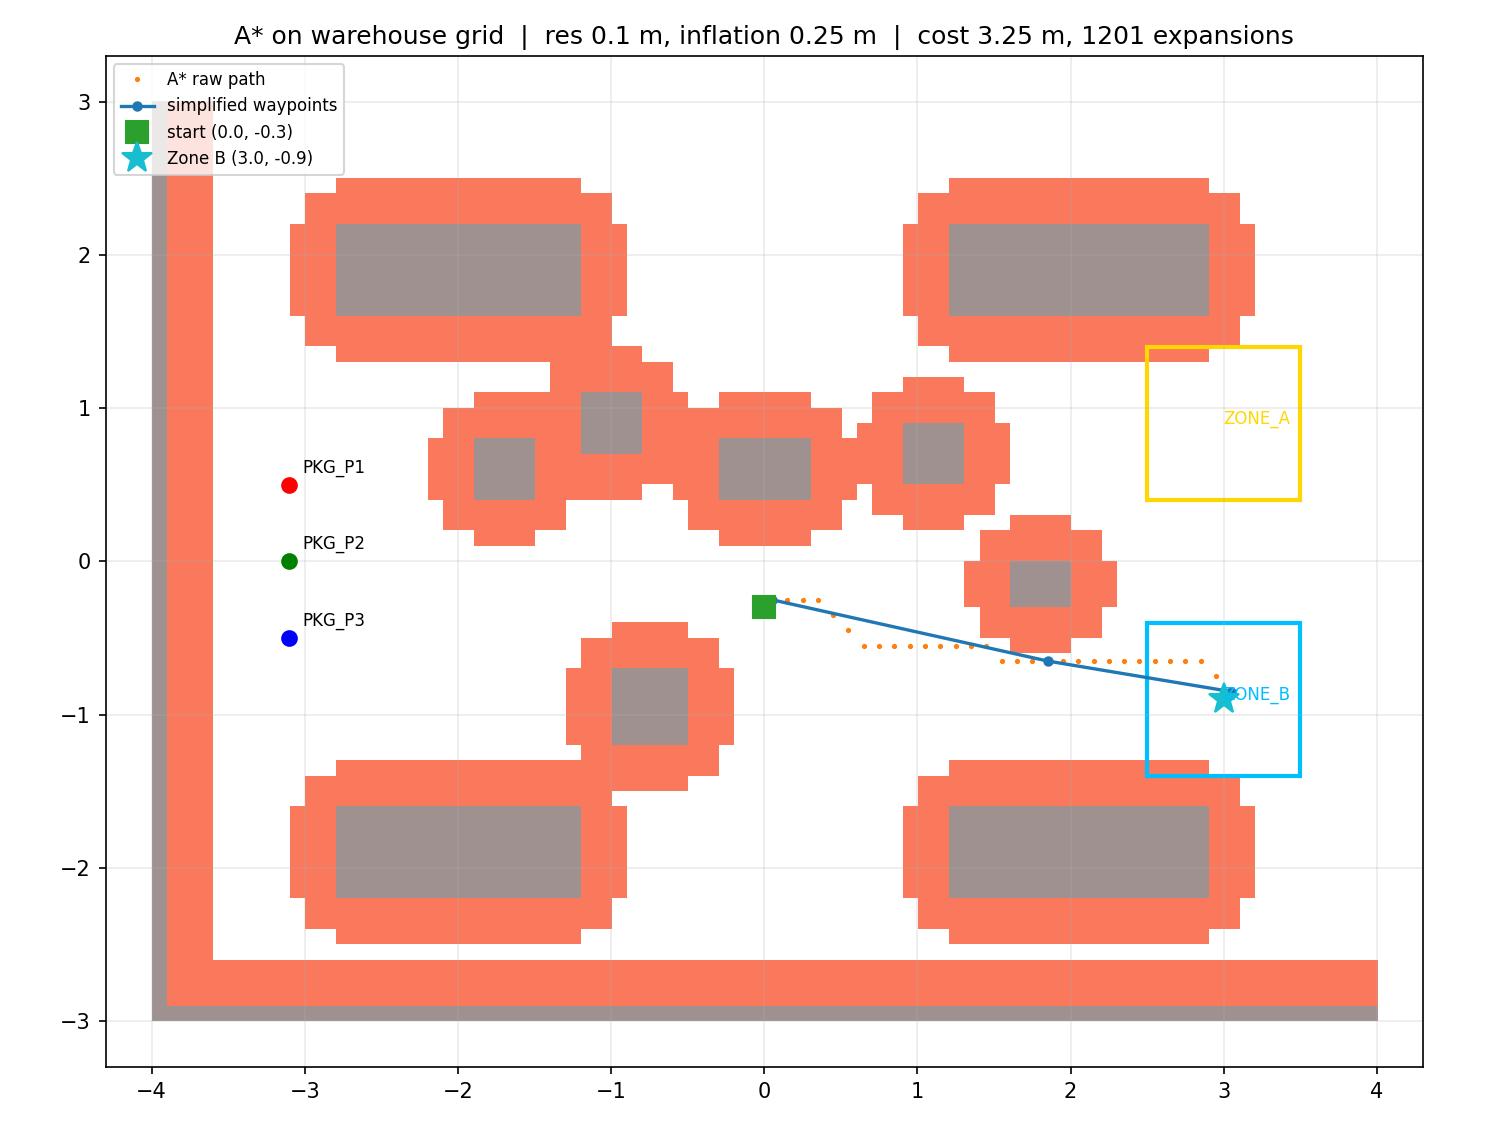
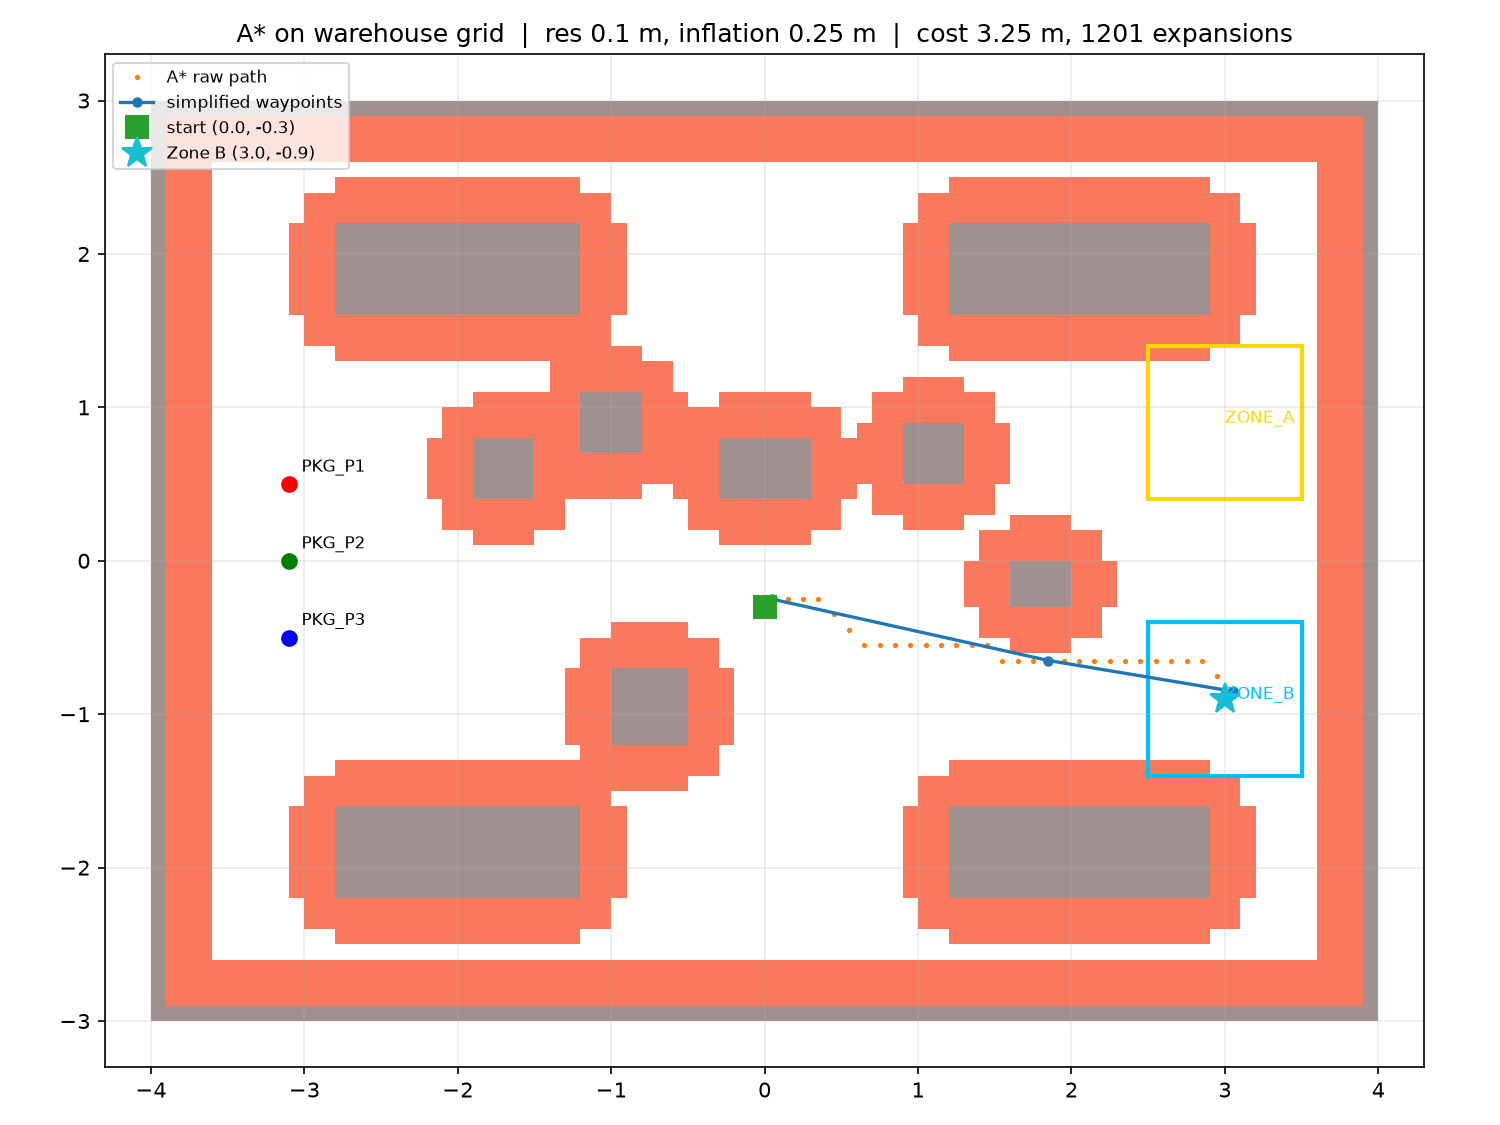
camera view

diff --git a/controllers/intellibot_controller/intellibot_controller.py b/controllers/intellibot_controller/intellibot_controller.py
@@ -53,6 +53,42 @@ def apply_campaign_start(robot):
     return idx, f"_{idx}"
 
 
+class PackageCarrier:
+    """Moves the task package Solid with the robot while fsm.carrying is set
+    (Supervisor teleport each step), then sets it down in front of the robot.
+
+    The package rides above the body and the LiDAR plane, so it never shows
+    up in the scan.
+    """
+    CARRY_Z = (config.BODY_HEIGHT / 2 + 0.08) + config.PKG_SIZE / 2 + 0.03
+    DROP_AHEAD = config.BODY_LENGTH / 2 + config.PKG_SIZE / 2 + 0.05
+
+    def __init__(self, robot):
+        self.node = robot.getFromDef(config.TASK_PACKAGE_DEF)
+        if self.node is None:
+            print(f"[INTELLIBOT] {config.TASK_PACKAGE_DEF} not in world — "
+                  f"package will not be carried")
+        self.attached = False
+
+    def update(self, pose, carrying):
+        if self.node is None:
+            return
+        x, y, theta = pose
+        if carrying:
+            self._place(x, y, self.CARRY_Z, theta)
+            self.attached = True
+        elif self.attached:
+            self._place(x + self.DROP_AHEAD * math.cos(theta),
+                        y + self.DROP_AHEAD * math.sin(theta),
+                        config.PKG_SIZE / 2, theta)
+            self.attached = False
+
+    def _place(self, x, y, z, yaw):
+        self.node.getField("translation").setSFVec3f([x, y, z])
+        self.node.getField("rotation").setSFRotation([0, 0, 1, yaw])
+        self.node.resetPhysics()
+
+
 def print_env_versions():
     """Phase 0.1: prove numpy/cv2/matplotlib import inside the controller."""
     import numpy
@@ -102,12 +138,29 @@ def main():
                                                     scan, angles)
 
     fsm = DecisionMaker(planner, estimator, grid=grid)
+    carrier = PackageCarrier(robot)
     logger = RunLogger(os.path.join(_ROOT, "logs",
                                     f"run{log_suffix}.csv")).start()
 
     log_every = max(1, int(0.1 / (timestep / 1000.0)))  # ~10 Hz
     dash_every = max(1, int(0.5 / (timestep / 1000.0)))  # ~2 Hz dashboard
     step_i = 0
+    finished = False
+    # quit at DONE only in unattended campaign runs; an interactive run keeps
+    # stepping (wheels stopped) so the camera/dashboard overlays stay live
+    quit_at_end = config.AUTO_QUIT and run_idx is not None
+
+    def finish():
+        # final row so the CSV records the terminal state even when DONE
+        # happens between two 10 Hz log ticks
+        pose = perception.get_pose()
+        logger.log(t=round(robot.getTime(), 3),
+                   x=round(pose[0], 4), y=round(pose[1], 4),
+                   theta=round(pose[2], 4),
+                   state=fsm.state, wp_idx=-1, n_detections=0)
+        logger.close()
+        sys.stdout.flush()      # DONE/REPORT prints otherwise lost to buffering
+
     while robot.step(timestep) != -1:
         sim_time = robot.getTime()
         pose = perception.get_pose()                    # x, y, theta (GPS+IMU)
@@ -120,13 +173,14 @@ def main():
                           timestep / 1000.0)
         wl, wr = inverse_kinematics(v, w)
         perception.set_wheel_speeds(wl, wr)
+        carrier.update(pose, fsm.carrying)
         set_state_led(led, fsm.state)
 
         if dash is not None and step_i % dash_every == 0:
             wps = fsm.follower.waypoints if fsm.follower else None
             dash.draw(pose, fsm.state, sim_time, wps, fsm.pkg_pos)
 
-        if step_i % log_every == 0:
+        if not finished and step_i % log_every == 0:
             logger.log(
                 t=round(sim_time, 3),
                 x=round(pose[0], 4), y=round(pose[1], 4),
@@ -144,25 +198,29 @@ def main():
                 n_detections=len(dets),
             )
         step_i += 1
+        if finished:
+            continue
         if fsm.state in ("DONE", "ERROR") and sim_time > fsm.t_start + 2.0:
-            # mission over: stop cleanly (simulationQuit alone proved
+            # mission over: stop logging (simulationQuit alone proved
             # unreliable in batch/realtime runs — run.csv kept growing to the
             # 300 s safety timeout after DONE)
-            print(f"[INTELLIBOT] mission {fsm.state} — stopping controller")
-            break
-        if sim_time > 300.0:                            # hard safety timeout
+            finished = True
+            finish()
+            if quit_at_end:
+                print(f"[INTELLIBOT] mission {fsm.state} — stopping controller")
+                break
+            print(f"[INTELLIBOT] mission {fsm.state} — robot idle, "
+                  f"dashboard stays live (pause/reset the simulation to stop)")
+            sys.stdout.flush()
+        elif sim_time > 300.0:                          # hard safety timeout
             print("[INTELLIBOT] 300 s timeout — stopping")
+            finished = True
+            finish()
             break
 
-    # final row so the CSV records the terminal state even when DONE happens
-    # between two 10 Hz log ticks
-    pose = perception.get_pose()
-    logger.log(t=round(robot.getTime(), 3),
-               x=round(pose[0], 4), y=round(pose[1], 4), theta=round(pose[2], 4),
-               state=fsm.state, wp_idx=-1, n_detections=0)
-    logger.close()
-    sys.stdout.flush()          # DONE/REPORT prints otherwise lost to buffering
-    if config.AUTO_QUIT and fsm.state in ("DONE", "ERROR"):
+    if not finished:            # Webots closed / reverted mid-mission
+        finish()
+    if quit_at_end and fsm.state in ("DONE", "ERROR"):
         robot.simulationQuit(0 if fsm.state == "DONE" else 1)
 
 

diff --git a/controllers/intellibot_controller/decision_maker.py b/controllers/intellibot_controller/decision_maker.py
@@ -12,6 +12,9 @@ fake planners/estimators and a simulated unicycle — no Webots required.
 
 The LiDAR scan is passed straight through to the WaypointFollower, whose
 BLOCKED status is the designated re-planning hook for the final eval.
+
+Package carrying is exposed as the ``carrying`` flag (True from PICK until
+DONE); the controller moves the package Solid accordingly via the Supervisor.
 """
 
 import math
@@ -36,6 +39,7 @@ class DecisionMaker:
         self.detection_streak = 0
         self.scan_angle_accum = 0.0
         self.pick_deadline = None
+        self.carrying = False           # package attached to the robot
         self.replans = 0
         self.path_length_total = 0.0
         self.last_info = {}
@@ -62,6 +66,7 @@ class DecisionMaker:
         self.scan_angle_accum = 0.0
         self.mission_report = None
         self.pkg_pos = None
+        self.carrying = False
         self.log(f"[t={sim_time:.1f}s] Task: pick {config.TASK_PACKAGE} "
                  f"({config.TASK_PACKAGE_COLOR}), deliver to Zone {config.TASK_ZONE}")
         self._set_state("FIND_PACKAGE", sim_time)
@@ -136,9 +141,9 @@ class DecisionMaker:
         if sim_time >= self.pick_deadline:
             px, py = self.pkg_pos
             d = math.hypot(pose[0] - px, pose[1] - py)
+            self.carrying = True
             self.log(f"[t={sim_time:.1f}s] Package {config.TASK_PACKAGE} — "
-                     f"Distance: {d:.2f} m — PICK placeholder "
-                     f"(attachment in final eval)")
+                     f"Distance: {d:.2f} m — picked up")
             self._set_state("PLAN_DELIVERY", sim_time)
         return 0.0, 0.0
 
@@ -163,6 +168,9 @@ class DecisionMaker:
         v, w = self.follower.update(pose, scan, angles)
         if self.follower.status == "REACHED":
             self.follower = None
+            self.carrying = False
+            self.log(f"[t={sim_time:.1f}s] Package {config.TASK_PACKAGE} "
+                     f"dropped in Zone {config.TASK_ZONE}")
             self._set_state("DONE", sim_time)
             self._emit_report(sim_time)
         elif self.follower.status == "BLOCKED":

diff --git a/controller_output/intellibot_controller/mapping.py b/controller_output/intellibot_controller/mapping.py
@@ -53,13 +53,20 @@ class OccupancyGrid:
 
     # ------------------------------------------------------------- occupancy
     def add_static_rect(self, cx, cy, sx, sy):
-        """Mark an axis-aligned rectangle (center + full sizes) as static."""
-        r0, c0 = self.world_to_cell(cx - sx / 2.0, cy - sy / 2.0)
-        r1, c1 = self.world_to_cell(cx + sx / 2.0, cy + sy / 2.0)
-        r0, r1 = max(r0, 0), min(r1, self.n_rows - 1)
-        c0, c1 = max(c0, 0), min(c1, self.n_cols - 1)
-        if r0 <= r1 and c0 <= c1:
-            self.static[r0:r1 + 1, c0:c1 + 1] = True
+        """Mark an axis-aligned rectangle (center + full sizes) as static.
+
+        A rect touching the arena boundary from outside (e.g. a perimeter
+        wall) marks the edge cells; one fully outside is ignored.
+        """
+        x0, x1 = cx - sx / 2.0, cx + sx / 2.0
+        y0, y1 = cy - sy / 2.0, cy + sy / 2.0
+        if x1 < self.x_min or x0 > self.x_max or y1 < self.y_min or y0 > self.y_max:
+            return
+        r0, c0 = self.world_to_cell(x0, y0)
+        r1, c1 = self.world_to_cell(x1, y1)
+        r0, r1 = min(max(r0, 0), self.n_rows - 1), min(max(r1, 0), self.n_rows - 1)
+        c0, c1 = min(max(c0, 0), self.n_cols - 1), min(max(c1, 0), self.n_cols - 1)
+        self.static[r0:r1 + 1, c0:c1 + 1] = True
 
     def add_obstacle_world(self, x, y, radius):
         """Mark a circular dynamic obstacle (final-eval hook)."""

diff --git a/controllers/intellibot_controller/mapping.py b/controllers/intellibot_controller/mapping.py
@@ -53,13 +53,20 @@ class OccupancyGrid:
 
     # ------------------------------------------------------------- occupancy
     def add_static_rect(self, cx, cy, sx, sy):
-        """Mark an axis-aligned rectangle (center + full sizes) as static."""
-        r0, c0 = self.world_to_cell(cx - sx / 2.0, cy - sy / 2.0)
-        r1, c1 = self.world_to_cell(cx + sx / 2.0, cy + sy / 2.0)
-        r0, r1 = max(r0, 0), min(r1, self.n_rows - 1)
-        c0, c1 = max(c0, 0), min(c1, self.n_cols - 1)
-        if r0 <= r1 and c0 <= c1:
-            self.static[r0:r1 + 1, c0:c1 + 1] = True
+        """Mark an axis-aligned rectangle (center + full sizes) as static.
+
+        A rect touching the arena boundary from outside (e.g. a perimeter
+        wall) marks the edge cells; one fully outside is ignored.
+        """
+        x0, x1 = cx - sx / 2.0, cx + sx / 2.0
+        y0, y1 = cy - sy / 2.0, cy + sy / 2.0
+        if x1 < self.x_min or x0 > self.x_max or y1 < self.y_min or y0 > self.y_max:
+            return
+        r0, c0 = self.world_to_cell(x0, y0)
+        r1, c1 = self.world_to_cell(x1, y1)
+        r0, r1 = min(max(r0, 0), self.n_rows - 1), min(max(r1, 0), self.n_rows - 1)
+        c0, c1 = min(max(c0, 0), self.n_cols - 1), min(max(c1, 0), self.n_cols - 1)
+        self.static[r0:r1 + 1, c0:c1 + 1] = True
 
     def add_obstacle_world(self, x, y, radius):
         """Mark a circular dynamic obstacle (final-eval hook)."""

diff --git a/tests/test_decision_maker.py b/tests/test_decision_maker.py
@@ -84,6 +84,24 @@ def test_happy_path_reaches_done():
     assert fsm.mission_report["path_length_m"] > 0
 
 
+def test_carrying_flag_spans_pick_to_done():
+    """carrying is False before PICK, True through DELIVER, False at DONE."""
+    sim = Unicycle(0.0, -0.3, 0.0)
+    fsm = DecisionMaker(straight_planner(), fixed_estimator(-3.1, -0.5))
+    carried_in = set()
+    t, dt = 0.0, 0.016
+    while fsm.state not in ("DONE", "ERROR") and t < 200.0:
+        v, w = fsm.update(sim.pose(), None, None, [FakeDet()], t, dt)
+        carried_in.add((fsm.state, fsm.carrying))
+        sim.step(v, w, dt)
+        t += dt
+    assert fsm.state == "DONE"
+    assert ("NAVIGATE", True) not in carried_in
+    assert ("DELIVER", True) in carried_in
+    assert ("DELIVER", False) not in carried_in
+    assert fsm.carrying is False
+
+
 def test_package_never_found_error():
     sim = Unicycle(0.0, -0.3, 0.0)
     fsm = DecisionMaker(straight_planner(), fixed_estimator(-3.1, -0.5))
@@ -112,7 +130,8 @@ def test_transitions_logged(capsys):
     assert "STATE: IDLE -> FIND_PACKAGE" in out
     assert "STATE: FIND_PACKAGE -> NAVIGATE" in out
     assert "STATE: NAVIGATE -> PICK" in out
-    assert "PICK placeholder" in out
+    assert "picked up" in out
+    assert "dropped in Zone" in out
     assert "MISSION REPORT" in out
 
 

diff --git a/tests/test_warehouse.py b/tests/test_warehouse.py
@@ -65,3 +65,10 @@ def test_aisles_are_wide_enough():
         arr = np.array(col_cells)
         # every vertical scan line must contain some free space
         assert not arr.all(), f"fully blocked column at x={x:.1f}"
+
+
+def test_all_four_perimeter_walls_marked():
+    """Walls sit just outside the arena; every edge row/col must be static."""
+    g = build_warehouse_grid()
+    assert g.static[0, :].all() and g.static[-1, :].all()
+    assert g.static[:, 0].all() and g.static[:, -1].all()

diff --git a/README.md b/README.md
@@ -70,8 +70,11 @@ webots worlds/warehouse.wbt           # or open the file in Webots and press ▶
 Watch the console: FSM transitions print as
 `[FSM] [t=12.3s] STATE: NAVIGATE -> PICK`, A* stats print per plan, and the
 run ends with `MISSION REPORT: time=..., path_length=..., replans=0,
-collisions=N/A`. `AUTO_QUIT=True` (config.py) ends the simulation at
-DONE/ERROR. The run log is written to `logs/run.csv`.
+collisions=N/A`. At PICK the robot lifts P3 onto its back (Supervisor
+teleport) and sets it down inside Zone B at DONE. An interactive run then
+idles with the dashboard live; with `RUN_INDEX` set, `AUTO_QUIT=True`
+(config.py) ends the simulation at DONE/ERROR. The run log is written to
+`logs/run.csv`.
 
 If Webots' Python command is set correctly the controller starts silently;
 `ModuleNotFoundError: cv2/numpy` means Preferences points at the wrong
